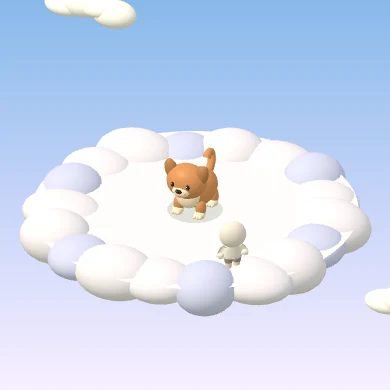
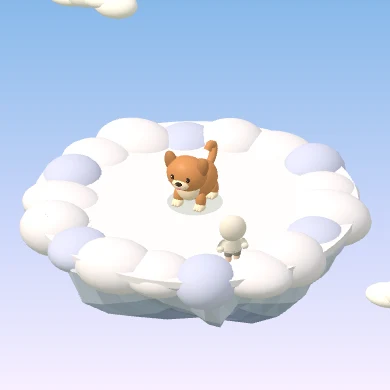
Unify all floating islands with themed rock bases

diff --git a/app/scene.js b/app/scene.js
@@ -1,9 +1,10 @@
-import {makeWalk,makeCloudSpace,makeNightSky} from './extra-themes.js?v=95';
+import {makeWalk,makeCloudSpace,makeNightSky} from './extra-themes.js?v=100';
 import * as T from './vendor/three.module.min.js';
 import { createAvatar } from './avatar.js?v=35';
 import { createMeatTreat, createFishTreat } from './treats.js';
 import {createItem} from './items.js';
-import {coast,makeCoast} from './coast.js?v=99';
+import {coast,makeCoast} from './coast.js?v=100';
+import {makeRockBase} from './island-rock.js?v=100';
 import { meadow } from './data.js';
 import {buildOwnerModel} from './owner-model.js?v=43';
 import {ownerColors as cleanColors} from './owner-colors.js';
@@ -29,11 +30,11 @@ function scatter(scene, geometry, instances) {
   });
   scene.add(batch);
 }
-function makeIsland(scene,theme,obstacles) {
-  const {radius,grass,earth,trees,flowers}=theme;
-  mesh(scene,new T.CylinderGeometry(radius,radius*.98,.22,48),material(grass),0,-.115,0);
-  mesh(scene,new T.CylinderGeometry(radius*.98,radius*.89,.33,48),material(0x98a675),0,-.38,0);
-  mesh(scene,new T.CylinderGeometry(radius*.89,radius*.71,.52,48),material(earth),0,-.805,0);
+function makeIsland(scene,theme,obstacles,night) {
+  const {radius,grass,trees,flowers}=theme;
+  mesh(scene,new T.CylinderGeometry(radius,radius,.10,64),material(grass),0,-.056,0);
+  const tones=night ? [0x7a8299,0x6b7088,0x575c73,0x49465f] : [0xa39177,0x918875,0x7d796d,0x67665c];
+  scene.add(makeRockBase(radius,tones,-.106));
   const shade=new T.MeshBasicMaterial({color:0x476f50,transparent:true,opacity:.13});
   const bark=material(0xa98466);
   const foliage=[], grassBlades=[], stones=[], blooms=[], stems=[], pavers=[];
@@ -244,7 +245,7 @@ function stopAtObstacle(position,x,z,clearance,obstacles) {
 export function createScene(host,profile,onPet,{preview=false,background='meadow',perspective='third',ownerModel,ownerColors,onGraphicsChange,onBallReady}={}) {
   const environment=preview ? 'meadow' : background;
   const night=environment==='stars';
-  const theme=environment==='coast' ? coast : night ? {...meadow,grass:0x789676,earth:0x77728e} : meadow;
+  const theme=environment==='coast' ? coast : night ? {...meadow,grass:0x789676} : meadow;
   const touchScreen=matchMedia('(pointer: coarse)').matches;
   const renderer = new T.WebGLRenderer({antialias:!touchScreen,alpha:!preview});
   renderer.setPixelRatio(Math.min(devicePixelRatio,touchScreen ? 1.35 : 1.7));
@@ -256,7 +257,7 @@ export function createScene(host,profile,onPet,{preview=false,background='meadow
   const eye = new T.PerspectiveCamera(54,1,.055,60);
   let camera=overview;
   overview.position.set(preview ? 2 : 5.8,preview ? 2.3 : 7.8,preview ? 5 : 12);
-  const overviewTarget=new T.Vector3(0,preview ? .76 : environment==='coast' ? .21 : .45,0);
+  const overviewTarget=new T.Vector3(0,preview ? .76 : .21,0);
   overview.lookAt(overviewTarget);
   const orbit=new T.Spherical().setFromVector3(overview.position.clone().sub(overviewTarget));
   let eyePitch=Math.atan2(.49-1.46,3);
@@ -274,7 +275,7 @@ export function createScene(host,profile,onPet,{preview=false,background='meadow
     } else if (environment==='walk') makeWalk(scene,theme.radius,obstacles);
     else if (environment==='clouds') animateEnvironment=makeCloudSpace(scene,theme.radius);
     else {
-      makeIsland(scene,theme,obstacles);
+      makeIsland(scene,theme,obstacles,night);
       if (night) animateEnvironment=makeNightSky(scene);
       else clouds=makeSkyClouds(scene);
     }

diff --git a/app/style.css b/app/style.css
@@ -217,9 +217,10 @@ section > .page-back { margin-bottom: 20px; }
 }
 #home[data-background="clouds"] .meadow-island {
   background: #f3f3ff;
-  box-shadow: 0 12px #cfdaff, 0 24px 18px #819eca66;
+  --island-rim: #cfdaff;
 }
 #home[data-background="clouds"] .meadow-island > * { visibility: hidden; }
+#home[data-background="stars"] { --rock-palette: #41445e, #6e7297, #575c7c, #70779a, #414258; }
 #home[data-background="stars"] .meadow-island { filter: brightness(.7) saturate(.7); }
 #home[data-background="stars"] .meadow-clouds { display: none; }
 #home[data-background="stars"] .meadow-fallback::before {
@@ -254,8 +255,7 @@ section > .page-back { margin-bottom: 20px; }
   #home[data-background="stars"] .meadow-fallback::after { animation: none; }
 }
 #home[data-background="coast"] .meadow-clouds { display: none; }
-#home[data-background="coast"] .meadow-fallback::before {
-  content: "";
+#home .meadow-rock-base {
   position: absolute;
   top: calc(43% + min(22vw, 20dvh, 192px));
   left: 50%;
@@ -263,8 +263,11 @@ section > .page-back { margin-bottom: 20px; }
   aspect-ratio: 2.65;
   transform: translateX(-50%);
   clip-path: polygon(0 0, 100% 0, 94% 52%, 84% 65%, 74% 70%, 64% 88%, 56% 100%, 47% 91%, 34% 73%, 22% 76%, 10% 54%, 4% 36%);
-  background: conic-gradient(from 218deg at 56% 100%, #77675d, #9b826c, #75665f, #ad9076, #655e58);
+  background: conic-gradient(from 218deg at 56% 100%, var(--rock-palette, #6e675b, #9b8f72, #787162, #a69779, #696456));
 }
+#home[data-background="coast"] { --rock-palette: #77675d, #9b826c, #75665f, #ad9076, #655e58; }
+#home[data-background="walk"] { --rock-palette: #7b6355, #b6977c, #8f7769, #bd9d83, #796659; }
+#home[data-background="clouds"] { --rock-palette: #91a2d1, #d8e4ff, #adbee4, #e3eaff, #91a2d1; }
 #home[data-background="coast"] .meadow-island {
   background: linear-gradient(157deg, #489caf 15%, #80cfc7 32%, #fff1ce 35%, #dfb382 37%, #ffd497 43%);
   box-shadow: 0 3px #cda371;
@@ -398,7 +401,7 @@ section > .page-back { margin-bottom: 20px; }
 #interaction-options { margin-bottom: 4px; }
 .meadow-fallback { position: absolute; inset: 0; pointer-events: none; }
 .has-webgl .meadow-fallback { display: none; }
-.meadow-island { position: absolute; top: 43%; left: 50%; width: min(89vw, 83dvh, 780px); aspect-ratio: 2.05; transform: translateX(-50%); border-radius: 50%; background: radial-gradient(ellipse at 39% 45%, #deeba9 12%, transparent 52%), radial-gradient(ellipse at 62% 70%, #abc989, #afd192 62%, #91b77e 100%); box-shadow: 0 13px #89a877, 0 24px 0 -3px #b99f7c, 0 34px 18px -10px #61785348; }
+.meadow-island { position: absolute; top: 43%; left: 50%; width: min(89vw, 83dvh, 780px); aspect-ratio: 2.05; transform: translateX(-50%); border-radius: 50%; background: radial-gradient(ellipse at 39% 45%, #deeba9 12%, transparent 52%), radial-gradient(ellipse at 62% 70%, #abc989, #afd192 62%, #91b77e 100%); box-shadow: 0 3px var(--island-rim, #89a877); }
 .meadow-clouds { position: absolute; inset: 20% 0 40%; background: radial-gradient(ellipse 10% 7% at 15% 30%, var(--white)d4 93%, transparent 100%), radial-gradient(ellipse 7% 12% at 17% 25%, var(--white)d4 93%, transparent 100%), radial-gradient(ellipse 11% 8% at 82% 32%, var(--white)c2 93%, transparent 100%), radial-gradient(ellipse 6% 10% at 80% 28%, var(--white)c2 93%, transparent 100%); }
 .meadow-island .tree, .meadow-island .flowers { position: absolute; }
 .tree-a { left: 15%; top: -16%; font-size: clamp(36px,11vw,91px); }

diff --git a/app/coast.js b/app/coast.js
@@ -1,54 +1,7 @@
 import * as T from './vendor/three.module.min.js';
+import {makeRockBase} from './island-rock.js?v=100';
 
 export const coast={radius:4.6,sky:0xffd4b4};
-
-function makeRockBase(radius) {
-  const segments=64;
-  const layers=[
-    [1,-.061,0,0,0],
-    [.96,-.34,.035,.025,0],
-    [.82,-1.00,.082,.12,-.02],
-    [.62,-1.49,.095,.19,-.12],
-    [.34,-1.96,.085,.36,-.13],
-    [.075,-2.38,.035,.45,-.18]
-  ];
-  const rings=layers.map(([scale,y,roughness,x,z],layer) =>
-    Array.from({length:segments},(_,i) => {
-      const angle=i*Math.PI*2/segments;
-      const ridge=Math.sin(angle*7)+.46*Math.sin(angle*13+1.4)+.3*Math.cos(angle*19);
-      const outline=radius*(scale+roughness*ridge);
-      const height=y+roughness*(1.45*Math.sin(angle*5+layer*.64)+.77*Math.cos(angle*9));
-      return [x+outline*Math.cos(angle),height,z+outline*Math.sin(angle)];
-    }));
-  const positions=[];
-  const colors=[];
-  const stoneTones=[0x998371,0x88796e,0x766b65,0x645d5b].map(tone => new T.Color(tone));
-  const tint=new T.Color();
-  function face(a,b,c,layer,index) {
-    positions.push(...a,...b,...c);
-    const depth=Math.min(layer,stoneTones.length-1);
-    tint.copy(stoneTones[depth]).multiplyScalar(1+.073*Math.sin(index*2.39)+.045*Math.cos(index*.66));
-    for (let vertex=0;vertex<3;vertex++) colors.push(tint.r,tint.g,tint.b);
-  }
-  for (let layer=0;layer<rings.length-1;layer++) {
-    const top=rings[layer];
-    const bottom=rings[layer+1];
-    for (let i=0;i<segments;i++) {
-      const next=(i+1)%segments;
-      face(top[i],top[next],bottom[i],layer,i);
-      face(top[next],bottom[next],bottom[i],layer,i+13);
-    }
-  }
-  const bottom=rings[rings.length-1];
-  for (let i=0;i<segments;i++) {
-    face(bottom[i],bottom[(i+1)%segments],[.45,-2.46,-.18],5,i);
-  }
-  const geometry=new T.BufferGeometry();
-  geometry.setAttribute('position',new T.Float32BufferAttribute(positions,3));
-  geometry.setAttribute('color',new T.Float32BufferAttribute(colors,3));
-  geometry.computeVertexNormals();
-  return new T.Mesh(geometry,new T.MeshStandardMaterial({vertexColors:true,roughness:.96}));
-}
 
 export function makeCoast(scene,theme,obstacles) {
   const {radius}=theme;
@@ -60,7 +13,7 @@ export function makeCoast(scene,theme,obstacles) {
     return part;
   }
   add(new T.CylinderGeometry(radius,radius,.055,64),material(0xf3c88c),0,-.0335,0);
-  scene.add(makeRockBase(radius));
+  scene.add(makeRockBase(radius,[0x998371,0x88796e,0x766b65,0x645d5b]));
 
   // The sand and water share a ground plane so both halves remain walkable.
   const water=new T.ShaderMaterial({

diff --git a/sw.js b/sw.js
@@ -1,10 +1,10 @@
-const CACHE='annyeong-v99';
+const CACHE='annyeong-v100';
 const APP_FILES=[
-  './','./manifest.webmanifest?v=7','./app/style.css?v=99','./app/main.js?v=99','./app/photos.js?v=39',
-  './app/annyeong-wordmark.webp','./app/paw-cursor-pink.png','./app/fonts/nanum-pen-script.woff2','./app/treats.js','./app/treat-meat.png','./app/treat-fish.png','./app/friends.js?v=80','./app/account.js?v=80','./app/icons.svg?v=22','./app/data.js','./app/data.js?v=18','./app/avatar.js?v=35','./app/scene.js?v=99','./app/vendor/three.module.min.js',
+  './','./manifest.webmanifest?v=7','./app/style.css?v=100','./app/main.js?v=100','./app/photos.js?v=39',
+  './app/annyeong-wordmark.webp','./app/paw-cursor-pink.png','./app/fonts/nanum-pen-script.woff2','./app/treats.js','./app/treat-meat.png','./app/treat-fish.png','./app/friends.js?v=80','./app/account.js?v=80','./app/icons.svg?v=22','./app/data.js','./app/data.js?v=18','./app/avatar.js?v=35','./app/scene.js?v=100','./app/vendor/three.module.min.js',
   './app/owner-model.js?v=43','./app/owner-colors.js','./app/models/hood_character_cylindrical_legs.glb','./app/vendor/GLTFLoader.js','./app/vendor/BufferGeometryUtils.js',
   './app/welcome-pets/dog.webp','./app/welcome-pets/cat.webp','./app/welcome-pets/hamster.webp','./app/welcome-pets/parrot.webp','./app/welcome-pets/lizard.webp',
-  './app/coast.js?v=99','./app/theme-catalog.js','./app/theme-catalog.js?v=99','./app/extra-themes.js?v=95','./app/walk-preview.webp?v=81','./app/clouds-preview.webp','./app/stars-preview.webp','./app/coast-preview.webp?v=99','./app/food-intro-cake.webp','./app/food-game.js?v=77','./app/items.js','./app/item-names.js',
+  './app/coast.js?v=100','./app/island-rock.js?v=100','./app/theme-catalog.js','./app/theme-catalog.js?v=100','./app/extra-themes.js?v=100','./app/walk-preview.webp?v=100','./app/clouds-preview.webp?v=100','./app/stars-preview.webp?v=100','./app/coast-preview.webp?v=100','./app/food-intro-cake.webp','./app/food-game.js?v=77','./app/items.js','./app/item-names.js',
   './app/item-ball.png','./app/item-bath.png','./app/item-vacuum.png','./app/item-tube.png','./app/item-bag.png','./app/item-gift-0.png','./app/item-gift-1.png','./app/item-gift-2.png',
   './app/vendor/jquery.min.js','./app/icon-drawing-192.png','./app/icon-heart-32.png','./app/icon-heart-192.png','./app/icon-heart-512.png'
 ];

diff --git a/app/island-rock.js b/app/island-rock.js
@@ -1,0 +1,49 @@
+import * as T from './vendor/three.module.min.js';
+
+export function makeRockBase(radius,tones,top=-.061) {
+  const segments=64;
+  const layers=[
+    [1,top,0,0,0],
+    [.96,-.34,.035,.025,0],
+    [.82,-1.00,.082,.12,-.02],
+    [.62,-1.49,.095,.19,-.12],
+    [.34,-1.96,.085,.36,-.13],
+    [.075,-2.38,.035,.45,-.18]
+  ];
+  const rings=layers.map(([scale,y,roughness,x,z],layer) =>
+    Array.from({length:segments},(_,i) => {
+      const angle=i*Math.PI*2/segments;
+      const ridge=Math.sin(angle*7)+.46*Math.sin(angle*13+1.4)+.3*Math.cos(angle*19);
+      const outline=radius*(scale+roughness*ridge);
+      const height=y+roughness*(1.45*Math.sin(angle*5+layer*.64)+.77*Math.cos(angle*9));
+      return [x+outline*Math.cos(angle),height,z+outline*Math.sin(angle)];
+    }));
+  const positions=[];
+  const colors=[];
+  const stoneTones=tones.map(tone => new T.Color(tone));
+  const tint=new T.Color();
+  function face(a,b,c,layer,index) {
+    positions.push(...a,...b,...c);
+    const depth=Math.min(layer,stoneTones.length-1);
+    tint.copy(stoneTones[depth]).multiplyScalar(1+.073*Math.sin(index*2.39)+.045*Math.cos(index*.66));
+    for (let vertex=0;vertex<3;vertex++) colors.push(tint.r,tint.g,tint.b);
+  }
+  for (let layer=0;layer<rings.length-1;layer++) {
+    const top=rings[layer];
+    const bottom=rings[layer+1];
+    for (let i=0;i<segments;i++) {
+      const next=(i+1)%segments;
+      face(top[i],top[next],bottom[i],layer,i);
+      face(top[next],bottom[next],bottom[i],layer,i+13);
+    }
+  }
+  const bottom=rings[rings.length-1];
+  for (let i=0;i<segments;i++) {
+    face(bottom[i],bottom[(i+1)%segments],[.45,-2.46,-.18],5,i);
+  }
+  const geometry=new T.BufferGeometry();
+  geometry.setAttribute('position',new T.Float32BufferAttribute(positions,3));
+  geometry.setAttribute('color',new T.Float32BufferAttribute(colors,3));
+  geometry.computeVertexNormals();
+  return new T.Mesh(geometry,new T.MeshStandardMaterial({vertexColors:true,roughness:.96}));
+}

diff --git a/app/extra-themes.js b/app/extra-themes.js
@@ -1,4 +1,5 @@
 import * as T from './vendor/three.module.min.js';
+import {makeRockBase} from './island-rock.js?v=100';
 
 const standard=(color,options={})=>new T.MeshStandardMaterial({color,roughness:.85,...options});
 function place(parent,geometry,material,x,y,z) {
@@ -9,7 +10,8 @@ function place(parent,geometry,material,x,y,z) {
 }
 
 export function makeWalk(scene,radius,obstacles) {
-  place(scene,new T.CylinderGeometry(radius,radius*.93,.35,64),standard(0x9cbd90),0,-.18,0);
+  place(scene,new T.CylinderGeometry(radius,radius,.10,64),standard(0x9cbd90),0,-.055,0);
+  scene.add(makeRockBase(radius,[0xb69c83,0xa68b77,0x907567,0x796459],-.105));
   const edging=standard(0xe7d5ba);
   const paved=[standard(0xd4ab93),standard(0xe1b8a0),standard(0xc89b87)];
   const paving=new T.BoxGeometry(.53,.045,.30);
@@ -65,7 +67,12 @@ export function makeCloudSpace(scene,radius) {
   const blue=standard(0xd4dcff);
   const white=standard(0xffffff);
   const puff=new T.SphereGeometry(1,20,12);
-  place(scene,new T.CylinderGeometry(radius*.94,radius*.73,.19,64),vapor,0,-.10,0);
+  place(scene,new T.CylinderGeometry(radius*.94,radius*.94,.19,64),vapor,0,-.10,0);
+  const baseTop=-.195;
+  const cloudBase=makeRockBase(radius*.94,[0xe4eaff,0xcbd9f3,0xb1c4e8,0x99abd6],baseTop);
+  cloudBase.scale.y=1.42;
+  cloudBase.position.y=baseTop*(1-cloudBase.scale.y);
+  scene.add(cloudBase);
   for (let i=0;i<18;i++) {
     const a=i*Math.PI/9;
     const edge=radius*(.76+(i%4)*.021);

diff --git a/app/theme-catalog.js b/app/theme-catalog.js
@@ -1,9 +1,9 @@
 export const themes={
   meadow:{name:'초원',price:0},
-  coast:{name:'노을 바다',price:50,preview:'coast-preview.webp?v=99',alt:'구름이 떠 있는 노을 아래 줄무늬 돗자리가 깔린 해변'},
-  walk:{name:'동네 산책길',price:50,preview:'walk-preview.webp?v=81',alt:'가로등과 벤치가 있는 벽돌 산책로'},
-  clouds:{name:'구름 위',price:50,alt:'하늘 위에 떠 있는 폭신한 구름'},
-  stars:{name:'별빛 초원',price:50,alt:'별과 달이 빛나는 밤의 초원'}
+  coast:{name:'노을 바다',price:50,preview:'coast-preview.webp?v=100',alt:'구름이 떠 있는 노을 아래 줄무늬 돗자리가 깔린 해변'},
+  walk:{name:'동네 산책길',price:50,preview:'walk-preview.webp?v=100',alt:'가로등과 벤치가 있는 벽돌 산책로'},
+  clouds:{name:'구름 위',price:50,preview:'clouds-preview.webp?v=100',alt:'하늘 위에 떠 있는 폭신한 구름'},
+  stars:{name:'별빛 초원',price:50,preview:'stars-preview.webp?v=100',alt:'별과 달이 빛나는 밤의 초원'}
 };
 
 export function themeId(value) {

diff --git a/app/main.js b/app/main.js
@@ -1,4 +1,4 @@
-import {themes,themeId,purchasedThemes} from './theme-catalog.js?v=99';
+import {themes,themeId,purchasedThemes} from './theme-catalog.js?v=100';
 import {createFoodGame} from './food-game.js?v=77';
 import {ownerColors as cleanOwnerColors} from './owner-colors.js';
 import {itemShape} from './item-names.js';
@@ -33,7 +33,7 @@ const random=values => values[Math.floor(Math.random()*values.length)];
 const dayKey=(date=new Date()) => [date.getFullYear(),date.getMonth()+1,date.getDate()].map(value => String(value).padStart(2,'0')).join('-');
 const civilDate=key => Date.parse(key+'T00:00:00Z');
 const tags=value => [...new Set(value.split(',').map(item => item.trim()).filter(Boolean))];
-const scenes=import('./scene.js?v=99').catch(() => null);
+const scenes=import('./scene.js?v=100').catch(() => null);
 let state, draft, addingFriend=false;
 let riding=false;
 let page, scene, sceneRevision=0, replyTimer, photoUrl, installPrompt, modeDates={};

diff --git a/index.php b/index.php
@@ -8,10 +8,10 @@
   <link rel="manifest" href="./manifest.webmanifest?v=7">
   <link rel="icon" type="image/png" sizes="32x32" href="./app/icon-heart-32.png">
   <link rel="apple-touch-icon" href="./app/icon-drawing-192.png">
-  <link rel="stylesheet" href="./app/style.css?v=99">
+  <link rel="stylesheet" href="./app/style.css?v=100">
   <title>안녕</title>
   <script defer src="./app/vendor/jquery.min.js"></script>
-  <script type="module" src="./app/main.js?v=99"></script>
+  <script type="module" src="./app/main.js?v=100"></script>
 </head>
 <body>
 <audio id="meadow-music" src="./app/meadow-music.m4a" preload="none" loop></audio>
@@ -96,6 +96,7 @@
     <section id="home" aria-label="초원" hidden>
       <div class="scene" id="home-scene">
         <div class="meadow-fallback" aria-hidden="true">
+          <div class="meadow-rock-base"></div>
           <div class="meadow-clouds"></div>
           <div class="meadow-island">
             <span class="tree tree-a"><svg class="ui-icon" aria-hidden="true" focusable="false" viewBox="0 0 24 24"><use href="./app/icons.svg?v=22#tree-deciduous"></use></svg></span><span class="tree tree-b"><svg class="ui-icon" aria-hidden="true" focusable="false" viewBox="0 0 24 24"><use href="./app/icons.svg?v=22#tree-deciduous"></use></svg></span>
